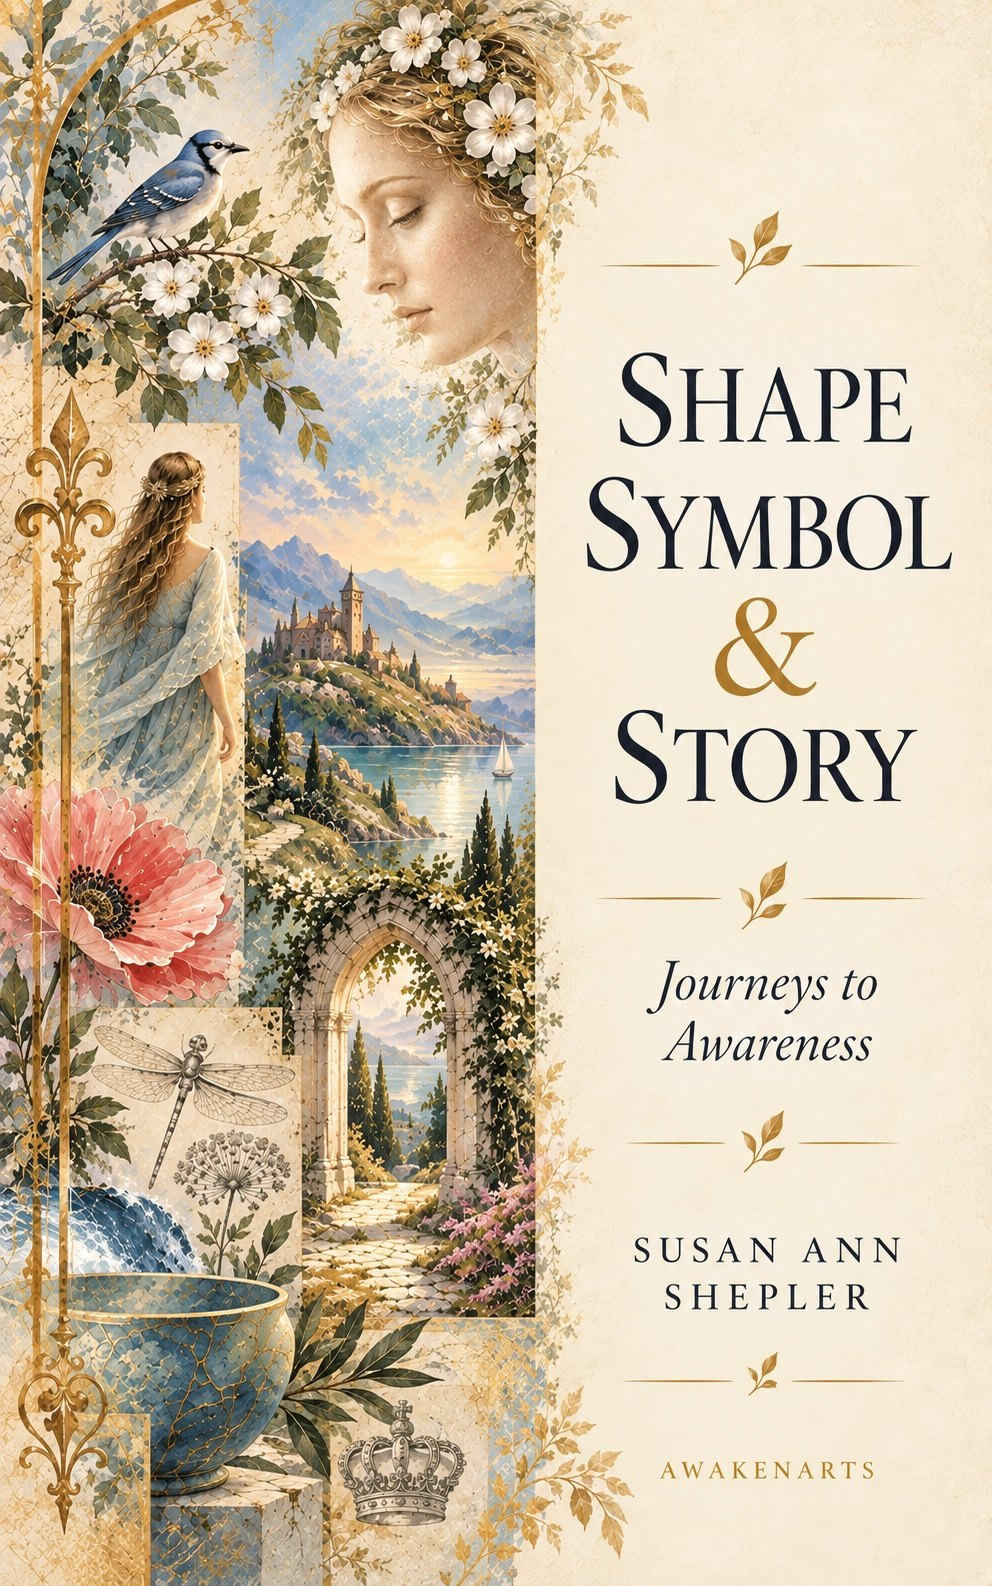
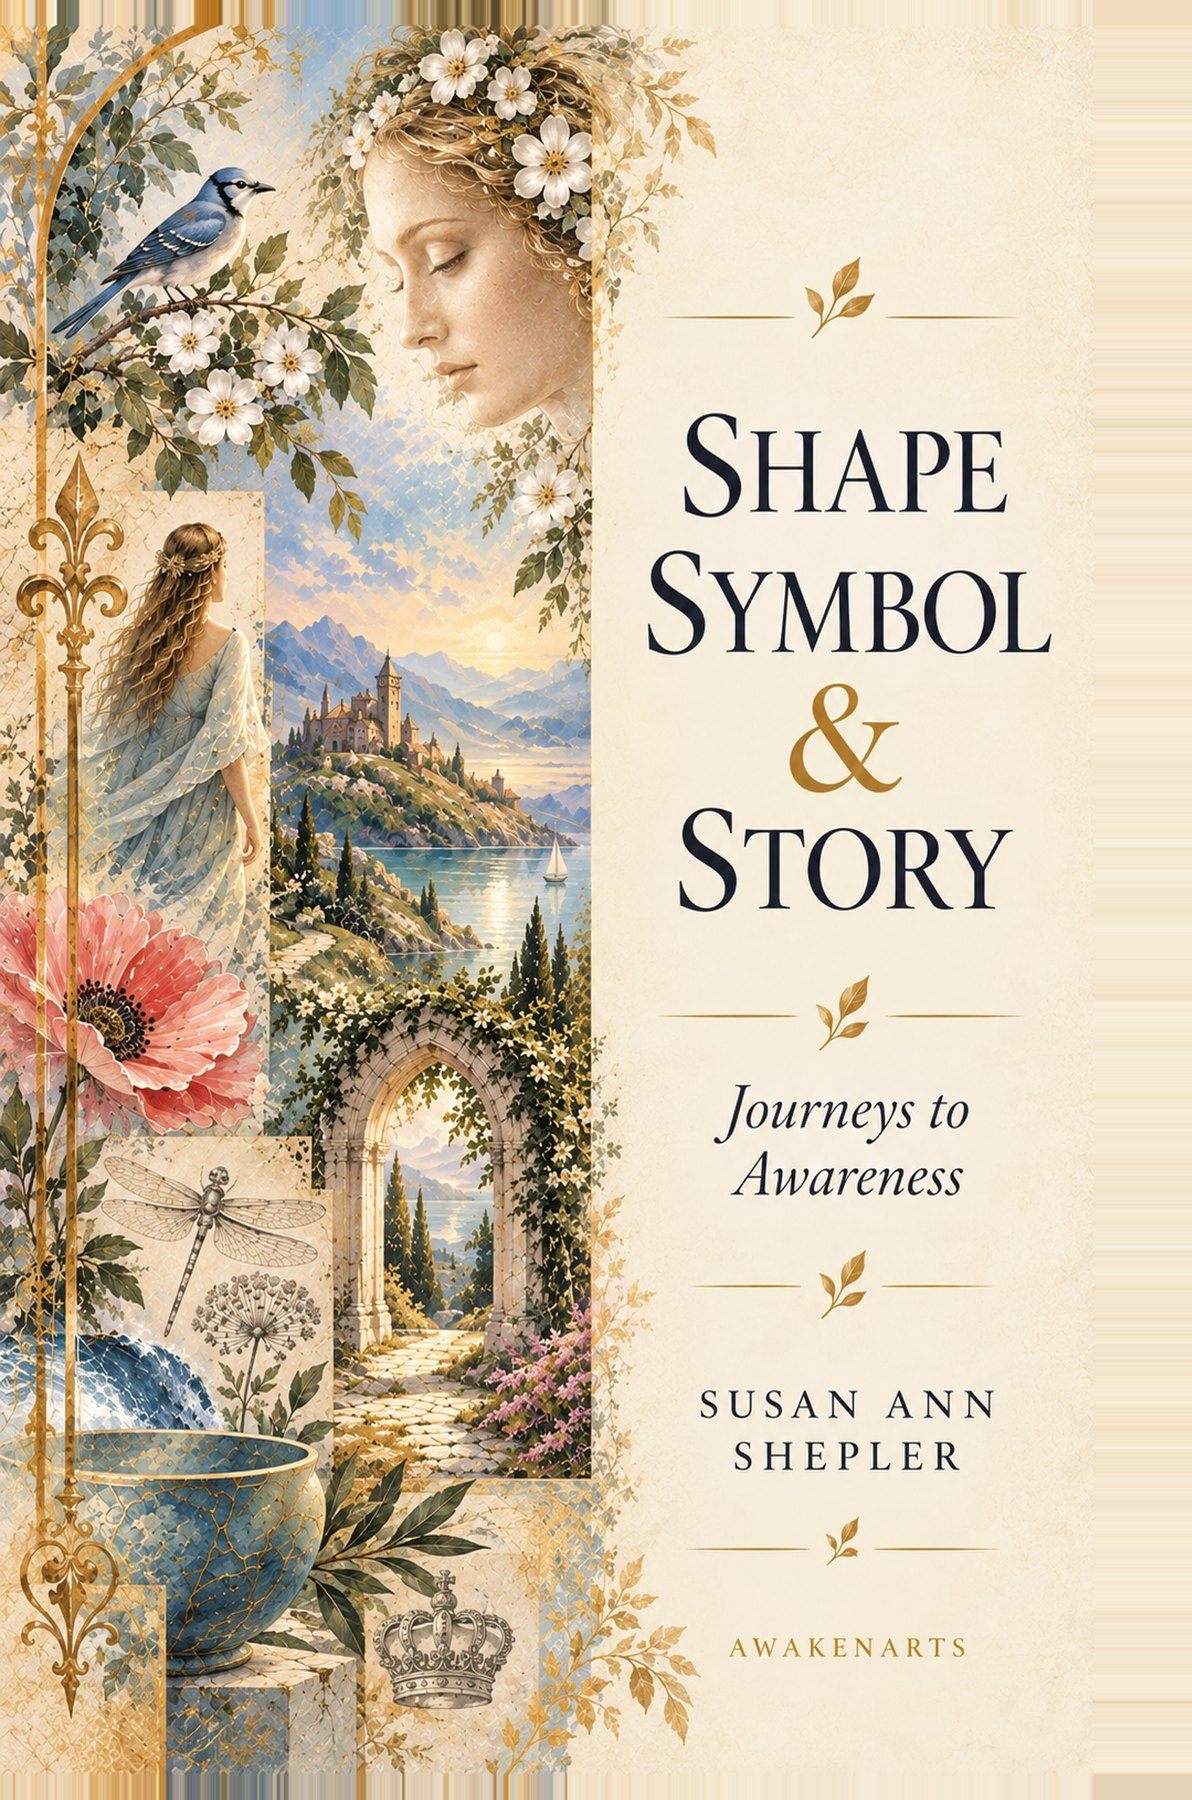
Books: covers share one height at true proportions; 6x9 print front for Shape, Symbol & Story; subtitles match the covers
Claude-Session: https://claude.ai/code/session_01B9Zobv7wRctFpXd9Vq7Cdy

diff --git a/src/components/books/BookCover.tsx b/src/components/books/BookCover.tsx
@@ -7,19 +7,18 @@ import type { Book } from '@/data/books'
 export default function BookCover({ book, size = 'md' }: { book: Book; size?: 'md' | 'lg' }) {
   const lg = size === 'lg'
   if (book.cover) {
-    // 2026-10-05: covers keep their true proportions (8.5 × 11 and 6 × 9
-    // books differ), never cropped. They sit on a shared 2:3 frame, aligned
-    // to its bottom edge, so a row of books shares one baseline.
+    // 2026-10-05, per Susan: every cover shares one height and keeps its
+    // true proportions (never cropped), so the wider 8.5 × 11 journal reads
+    // as fully as the 6 × 9 books beside it.
+    const h = lg ? 'min(510px, 120vw)' : 'min(345px, 92vw)'
     return (
-      <span style={{ display: 'flex', alignItems: 'flex-end', justifyContent: 'center', width: '100%', aspectRatio: '2 / 3' }}>
-        {/* eslint-disable-next-line @next/next/no-img-element */}
-        <img
-          src={book.cover}
-          alt={book.coverAlt || `Cover of ${book.title}`}
-          loading="lazy"
-          style={{ display: 'block', maxWidth: '100%', maxHeight: '100%', width: 'auto', height: 'auto', boxShadow: '0 10px 26px rgba(28, 43, 58, 0.18)' }}
-        />
-      </span>
+      // eslint-disable-next-line @next/next/no-img-element
+      <img
+        src={book.cover}
+        alt={book.coverAlt || `Cover of ${book.title}`}
+        loading="lazy"
+        style={{ display: 'block', height: h, width: 'auto', maxWidth: '100%', objectFit: 'contain', margin: '0 auto', boxShadow: '0 10px 26px rgba(28, 43, 58, 0.18)' }}
+      />
     )
   }
   return (

diff --git a/src/data/books.ts b/src/data/books.ts
@@ -35,9 +35,10 @@ export const books: Book[] = [
   {
     slug: 'shape-symbol-and-story',
     title: 'Shape, Symbol & Story',
+    subtitle: 'Journeys to Awareness',
     tagline: 'The images came first. Understanding came after.',
     status: 'coming',
-    // Source: AARTS PROJECTS/SHAPE-SYMBOL-STORY/My_SSS_Files/Shape_Symbol_Story_COVER_v03.jpg (2026-09-23)
+    // Source: SHAPE_SYMBOL_STORY/output/Shape_Symbol_Story_COVER_FRONT_PRINT_v02.png (6 × 9 print front)
     cover: '/images/books/shape-symbol-story-cover.jpg',
     coverAlt: 'Cover of Shape, Symbol & Story by Susan Ann Shepler',
   },
@@ -58,6 +59,7 @@ export const books: Book[] = [
   {
     slug: 'whispers-of-awareness',
     title: 'Whispers of Awareness',
+    subtitle: 'Awakening Through Art, Stories, and Symbols',
     status: 'coming',
     // Source: AARTS PROJECTS/WHISPERS 2ND EDITION KDP/WhispersCover.jpg (2026-10-02)
     cover: '/images/books/whispers-of-awareness-cover.jpg',

diff --git a/src/components/books/BookTile.tsx b/src/components/books/BookTile.tsx
@@ -9,7 +9,7 @@ export function statusText(b: Book) {
 export default function BookTile({ book, source }: { book: Book; source: string }) {
   return (
     <Link href={`/books/${book.slug}`} data-cta={`${source}-book-${book.slug}`} style={{ display: 'block', textDecoration: 'none', textAlign: 'center' }}>
-      <span style={{ display: 'block', maxWidth: 230, margin: '0 auto' }}>
+      <span style={{ display: 'block', maxWidth: 280, margin: '0 auto' }}>
         <BookCover book={book} />
       </span>
       <span style={{ display: 'block', fontFamily: 'var(--sans)', fontSize: '0.7rem', fontWeight: 600, letterSpacing: '0.16em', textTransform: 'uppercase', color: 'var(--gold)', marginTop: '1.1rem' }}>

diff --git a/src/app/books/[slug]/page.tsx b/src/app/books/[slug]/page.tsx
@@ -55,7 +55,7 @@ export default function BookPage({ params }: { params: { slug: string } }) {
       <main style={{ background: 'var(--cream)' }}>
         <section style={{ padding: 'calc(var(--band-gap) + 2rem) 1.5rem var(--band-gap)' }}>
           <div style={{ maxWidth: 980, margin: '0 auto', display: 'grid', gridTemplateColumns: 'repeat(auto-fit, minmax(260px, 1fr))', gap: '3.5rem', alignItems: 'center' }}>
-            <div style={{ maxWidth: 340, width: '100%', margin: '0 auto' }}>
+            <div style={{ maxWidth: 420, width: '100%', margin: '0 auto' }}>
               <BookCover book={b} size="lg" />
             </div>
             <div>
